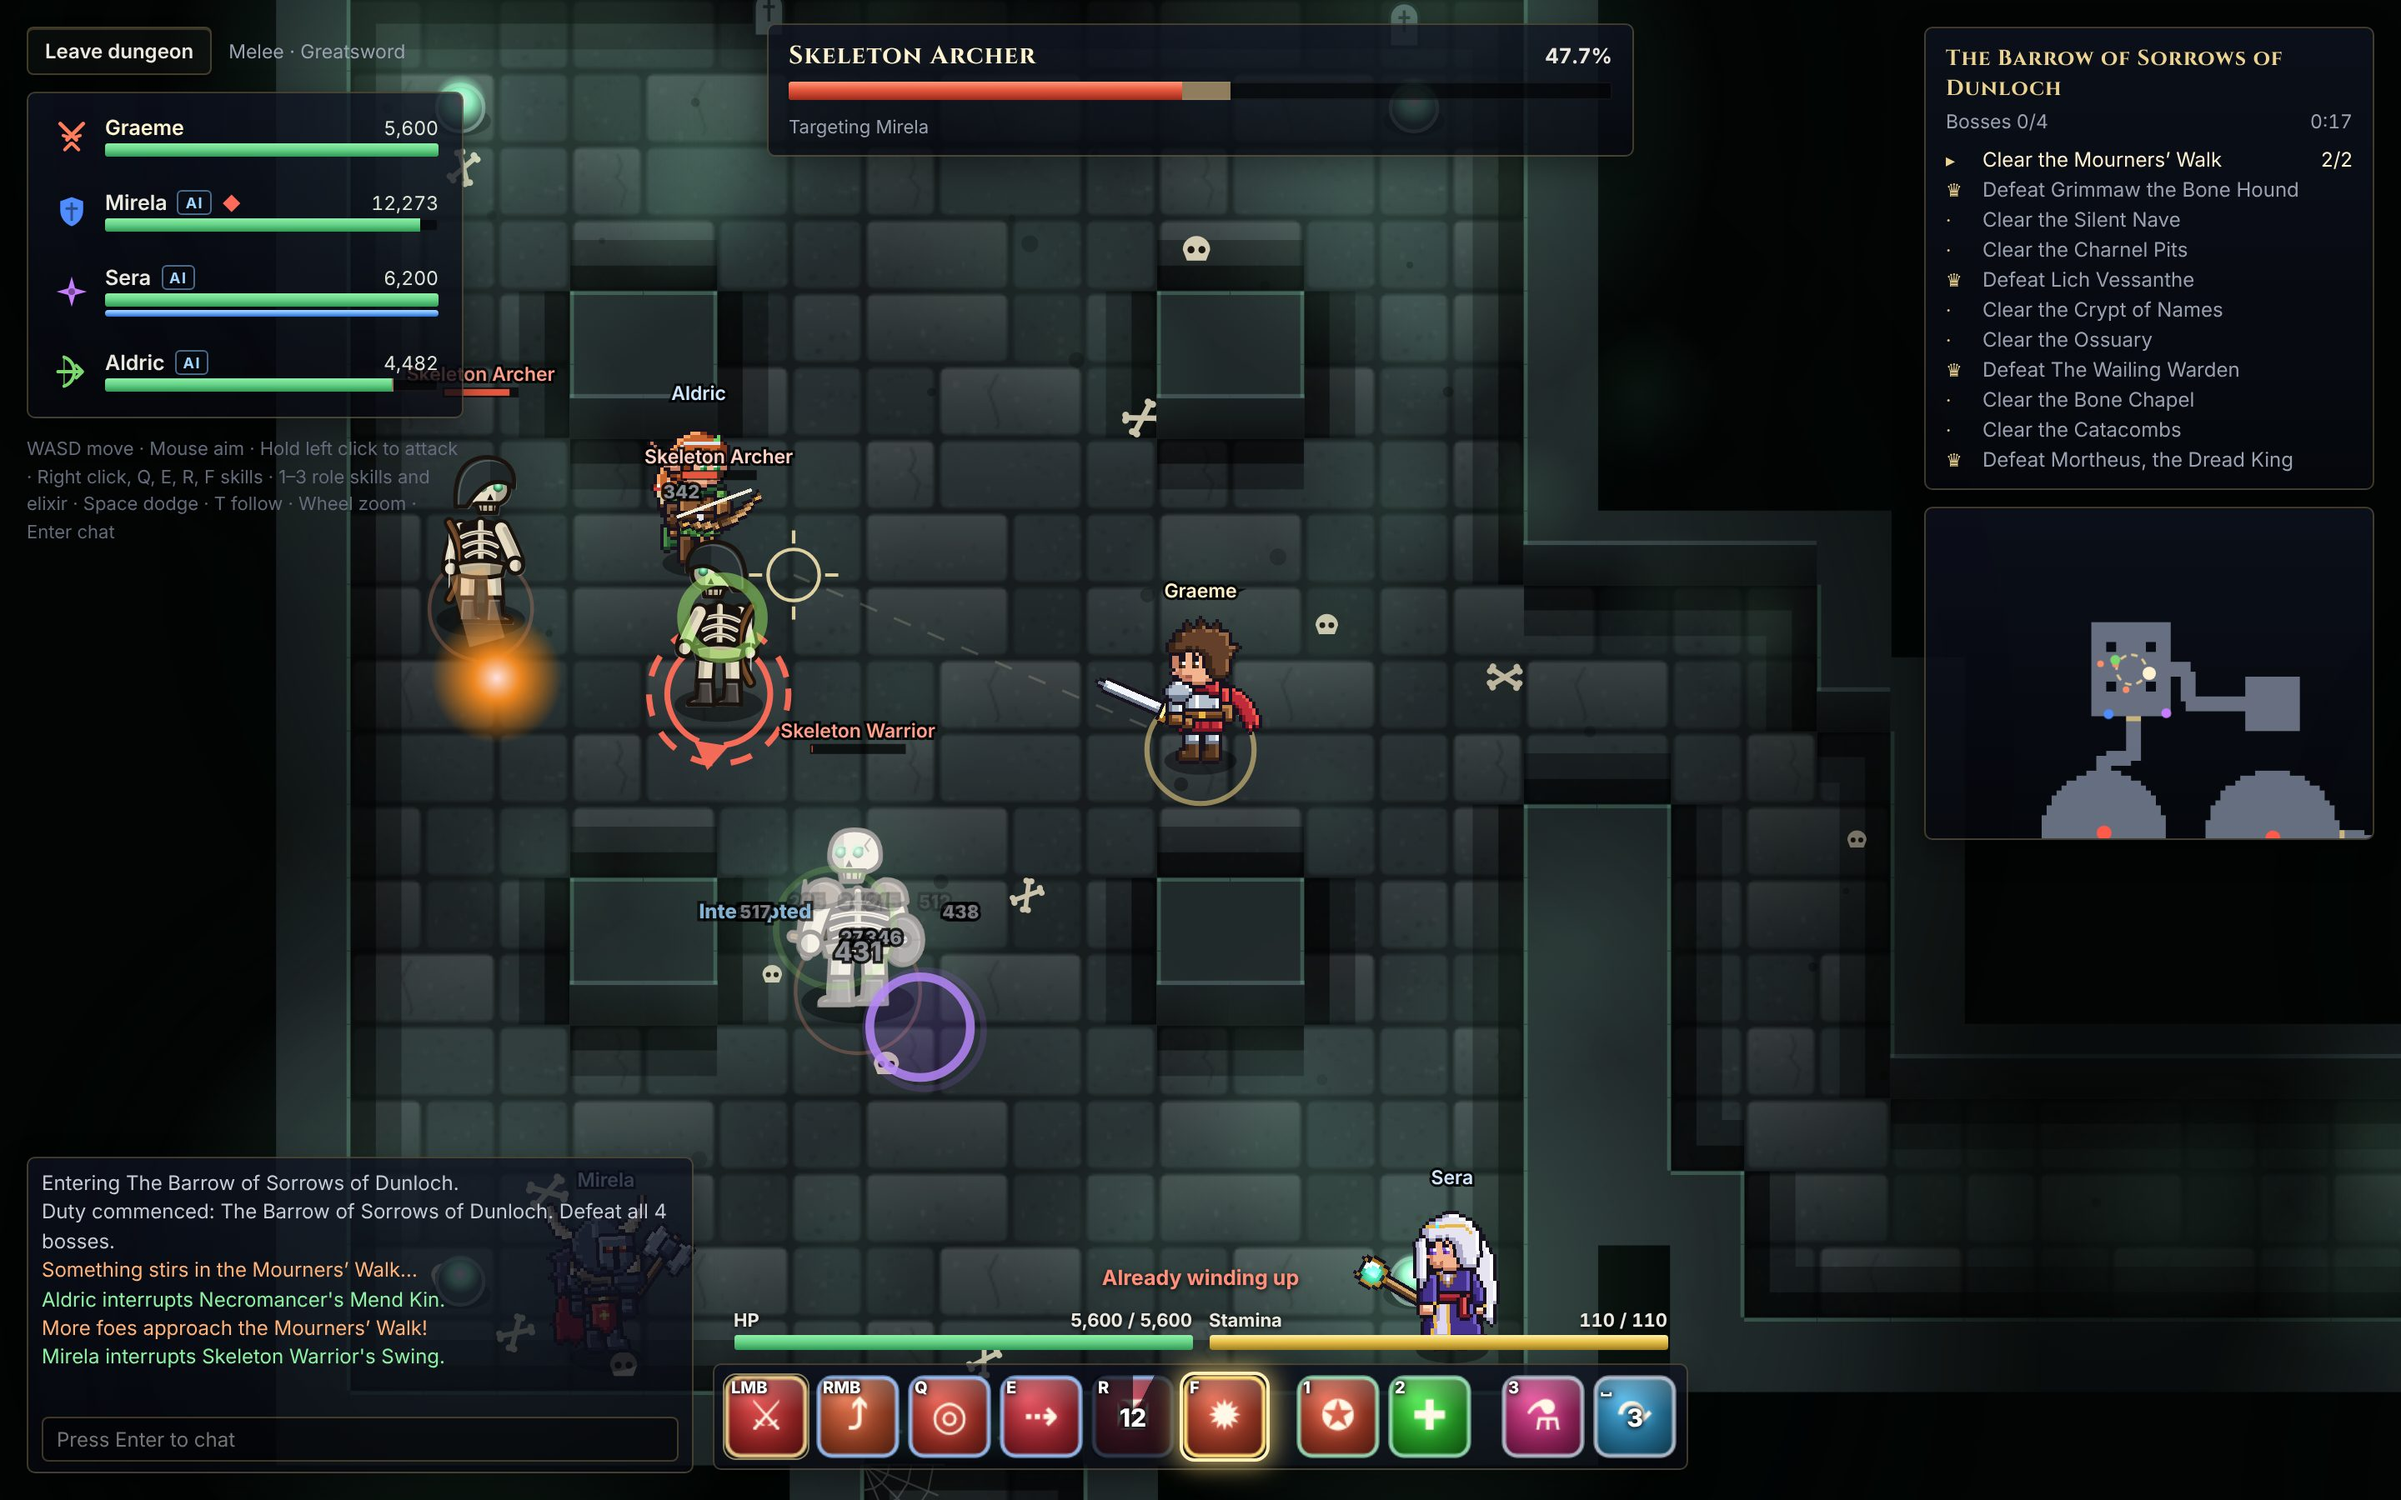
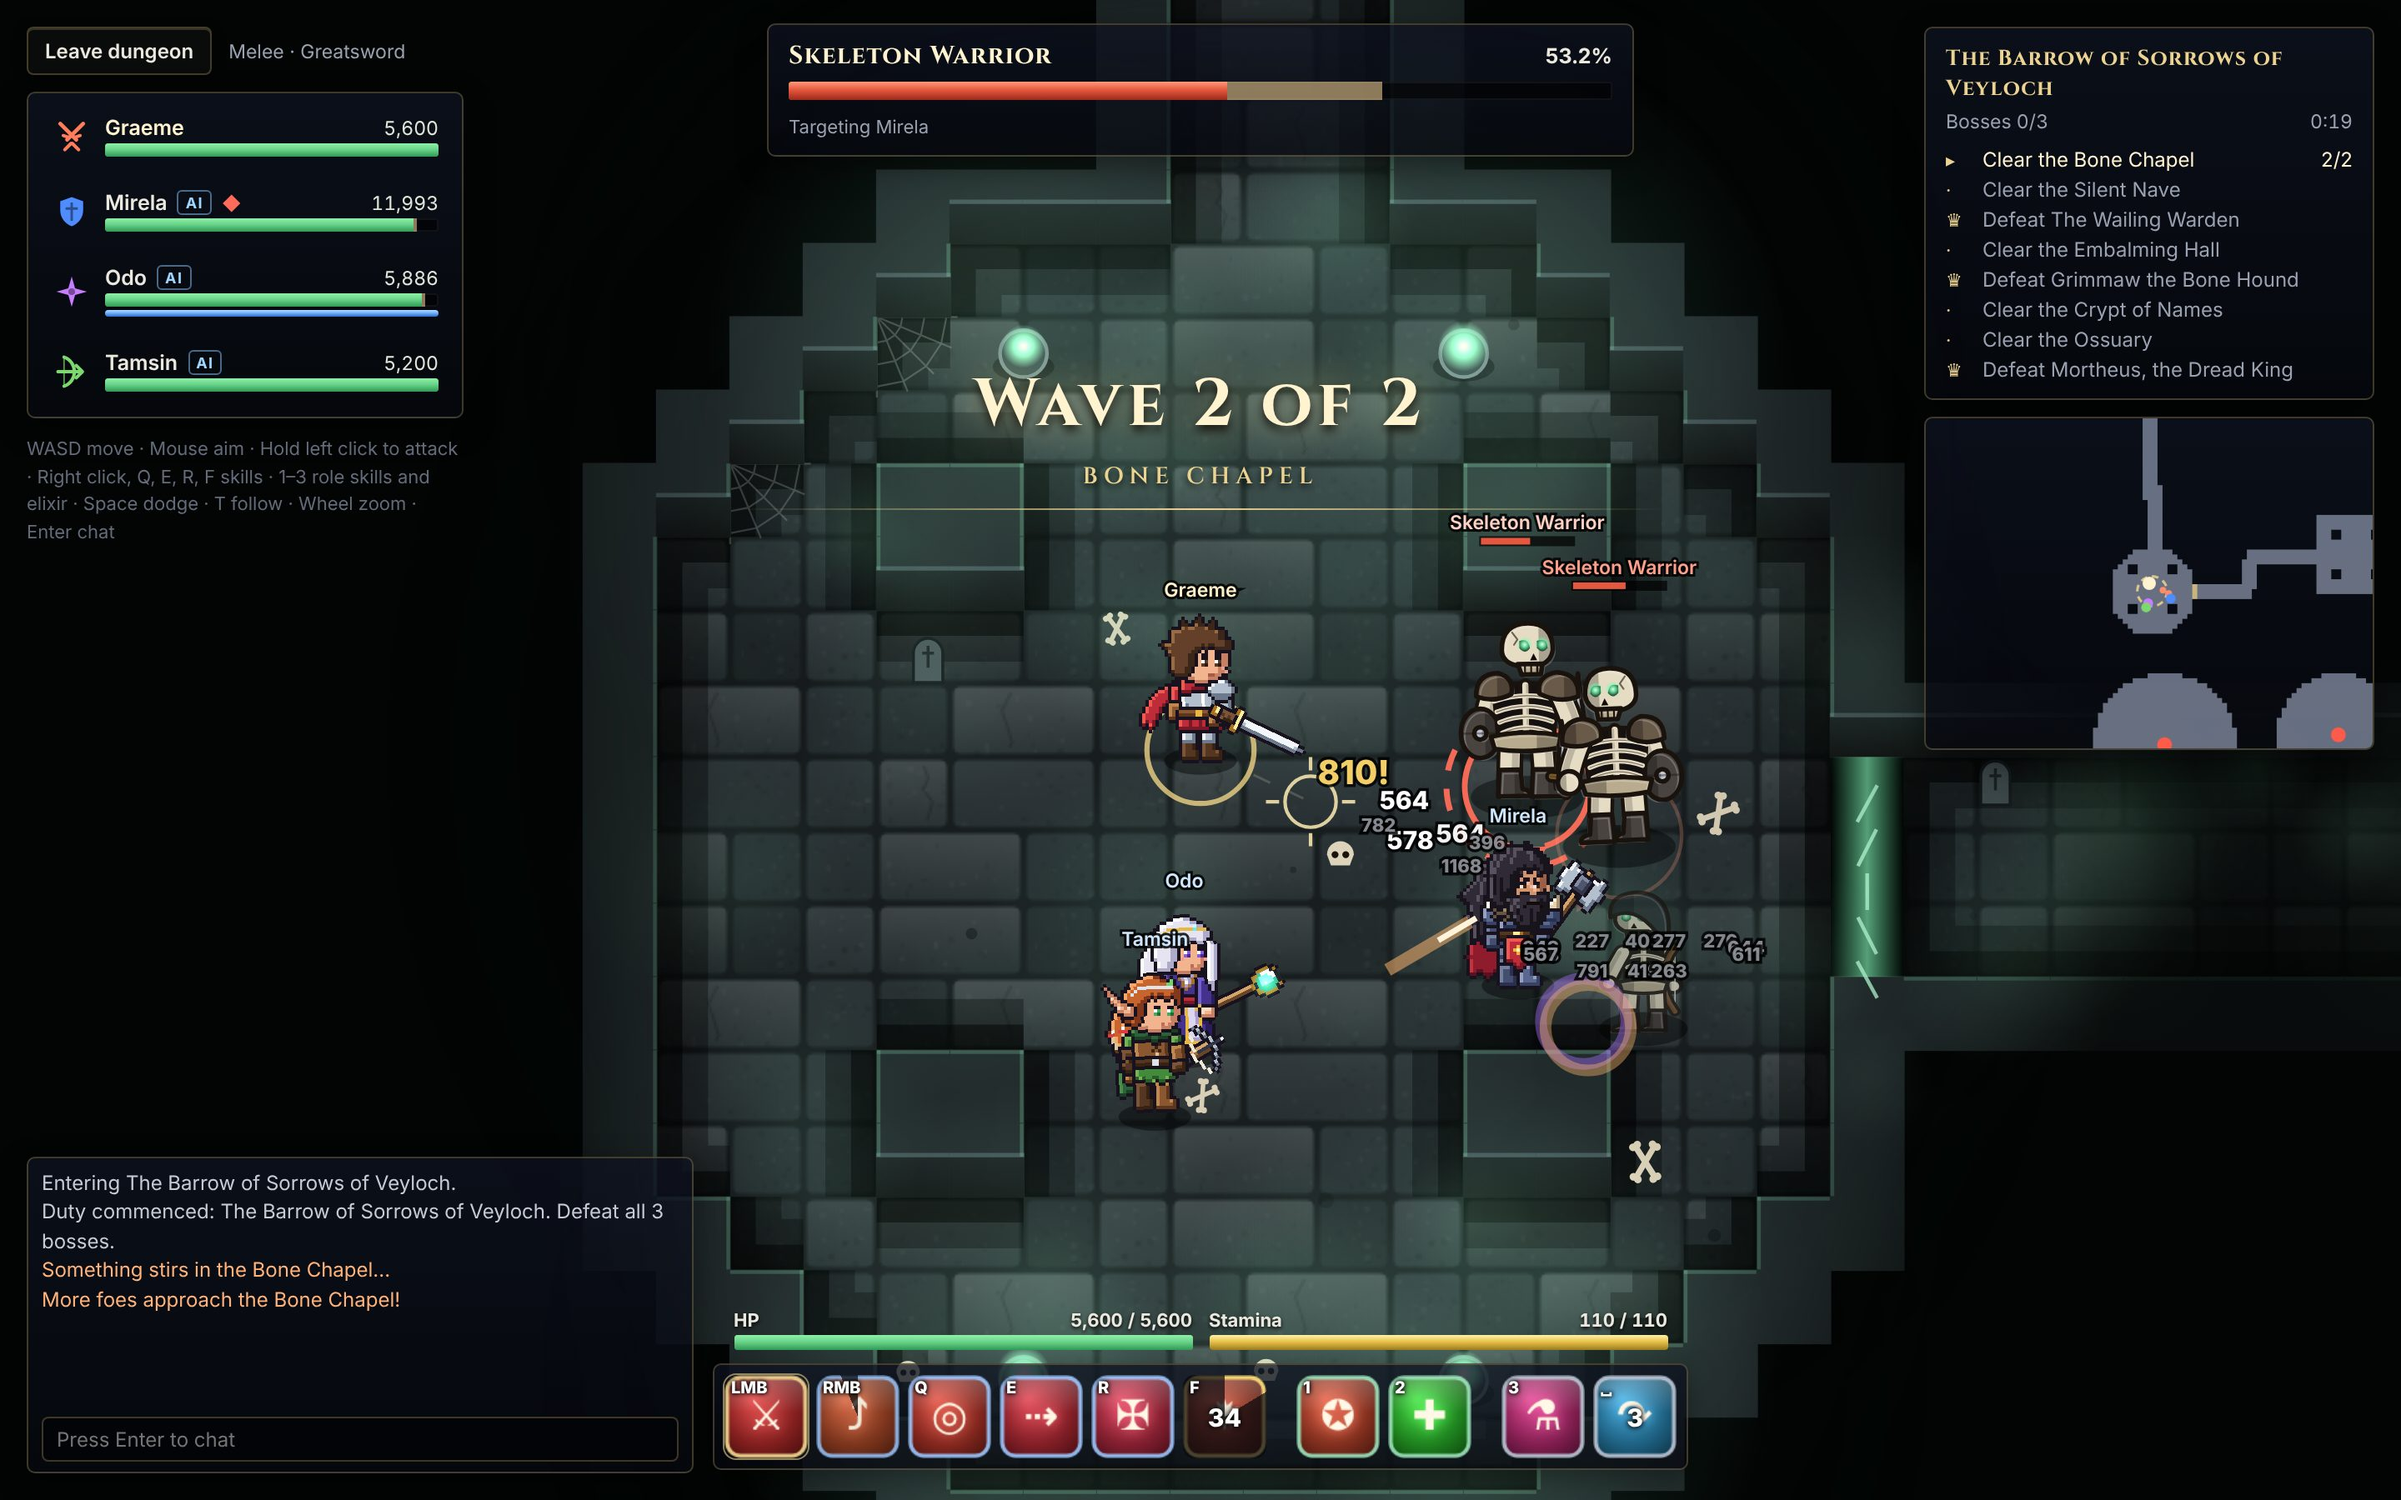
Tank: bare-headed, long dark mane and a bushy beard
Replace the horned helm with a gruff barbarian look: a long dark mane
down the back, a full beard and moustache, low scowling brows, narrowed
eyes, a crooked nose and a scar. His plate gets a blue-steel tint so the
black beard stands out against it. Title, lobby, ready-check and
bestiary screenshots retaken.

Claude-Session: https://claude.ai/code/session_01PGbyV5ggZzqgFPyt3tnswL

diff --git a/src/client/art/heroes.ts b/src/client/art/heroes.ts
@@ -27,9 +27,12 @@ const DARK_LEATHER: Ramp = ['#7c5538', '#553620', '#382213'];
 const RED: Ramp = ['#ee5a52', '#bd2c38', '#7a1828'];
 const CAPE: Ramp = ['#c4323e', '#8e1c2c', '#5a1020'];
 const FUR: Ramp = ['#d4c2a2', '#9c8668', '#66563f'];
-const FACEPLATE: Ramp = ['#b4bccf', '#78809a', '#4a5068'];
 const BONE: Ramp = ['#fff8e6', '#e3d3ae', '#a99470'];
-const BLACK_HAIR: Ramp = ['#6e6488', '#3e3654', '#241f34'];
+const PLATE: Ramp = ['#93a2c4', '#5a6890', '#384265'];
+const PLATE_DARK: Ramp = ['#73809f', '#444f70', '#2a3150'];
+const DARK_HAIR: Ramp = ['#58525f', '#2f2a36', '#18141c'];
+const WEATHERED: Ramp = ['#f2c29c', '#d4946c', '#9c5e44'];
+const SCAR = '#f0b4a0';
 const WHITE_HAIR: Ramp = ['#ffffff', '#e6e4f1', '#aeaaca'];
 const ROBE: Ramp = ['#7360cc', '#44328e', '#2a1d5e'];
 const ROBE_INNER: Ramp = ['#ffffff', '#ddd6f2', '#a99dcc'];
@@ -64,24 +67,26 @@ function heroDef(p: Pix, hand: { x: number; y: number }): SpriteDef {
 
 // ── Heroes ───────────────────────────────────────────────────────────────────────────────────
 
-/** Tank: a barbarian dark knight — horned helm, wild black mane, fur collar and tattered cape. */
+/** Tank: a gruff barbarian dark knight — long dark mane, bushy beard, fur collar and tattered cape. */
 function tank(): SpriteDef {
   const p = new Pix(W, H);
   p.paint(shape().poly([[14, 22], [26, 22], [24, 30], [22, 40], [20, 43], [18, 41], [16, 44], [14, 41], [11, 44], [9, 41], [6, 43], [5, 37], [7, 30], [10, 25]], X), CAPE, { shade: 2 });
-  p.paint(shape().poly([[13, 12], [17, 14], [16, 22], [14, 30], [12, 27], [11, 31], [9, 27], [6, 29], [7, 24], [4, 24], [7, 20], [5, 17], [9, 15]], X), BLACK_HAIR, { shade: 2 });
-  p.dots([[9, 19], [10, 22], [8, 25], [12, 24]], BLACK_HAIR[0]);
-  legs(p, DARKER_STEEL, DARK_STEEL, DARK_STEEL, DARKER_STEEL);
-  p.paint(shape().ellipse(16.5, 37, 1.6, 1.2, X), DARK_STEEL, { line: false });
+  // Long dark mane down the back.
+  p.paint(shape().poly([[12, 8], [18, 6], [19, 20], [17, 28], [15, 34], [13, 31], [11, 35], [9, 31], [6, 33], [7, 27], [4, 28], [6, 22], [3, 19], [7, 15], [8, 11]], X), DARK_HAIR, { shade: 2 });
+  p.line(10, 12, 8, 20, DARK_HAIR[0]).line(14, 10, 13, 17, DARK_HAIR[0]);
+  p.line(9, 22, 8, 30, DARK_HAIR[2]).line(12, 20, 12, 31, DARK_HAIR[2]).line(6, 24, 5, 27, DARK_HAIR[2]).line(15, 24, 15, 31, DARK_HAIR[2]);
+  legs(p, PLATE_DARK, PLATE, PLATE, PLATE_DARK);
+  p.paint(shape().ellipse(16.5, 37, 1.6, 1.2, X), PLATE, { line: false });
   p.paint(shape().ellipse(22.5, 37, 1.8, 1.3, X), STEEL, { line: false });
   // Back arm and pauldron.
-  p.paint(shape().rect(11, 25, 14, 31, X), DARKER_STEEL);
-  p.paint(shape().rect(11, 31, 14, 34, X), DARKER_STEEL);
-  p.paint(shape().ellipse(13, 24.5, 3.5, 3, X), DARK_STEEL, { shade: 2 });
+  p.paint(shape().rect(11, 25, 14, 31, X), PLATE_DARK);
+  p.paint(shape().rect(11, 31, 14, 34, X), PLATE_DARK);
+  p.paint(shape().ellipse(13, 24.5, 3.5, 3, X), PLATE, { shade: 2 });
   p.paint(shape().poly([[10.5, 23], [13, 22.5], [10.5, 18]], X), BONE, { bottom: false });
   // Breastplate, belt and crimson tabard.
-  p.paint(shape().poly([[14, 22], [27, 22], [26, 34], [15, 34]], X), DARK_STEEL, { shade: 2 });
-  p.vline(20, 24, 28, DARK_STEEL[0]);
-  p.hline(16, 25, 28, DARKER_STEEL[2]);
+  p.paint(shape().poly([[14, 22], [27, 22], [26, 34], [15, 34]], X), PLATE, { shade: 2 });
+  p.vline(20, 24, 28, PLATE[0]);
+  p.hline(16, 25, 28, PLATE_DARK[2]);
   p.paint(shape().rect(15, 30, 26, 31, X), DARK_LEATHER, { hi: false });
   p.paint(shape().rect(19, 30, 21, 31, X), GOLD, { line: false });
   p.paint(shape().poly([[17, 32], [24, 32], [24, 38], [20.5, 41], [17, 38]], X), RED, { shade: 2 });
@@ -90,21 +95,27 @@ function tank(): SpriteDef {
   p.paint(shape().ellipse(20.5, 22.5, 8, 2.6, X).dots([[13, 25], [16, 26], [19, 25], [22, 26], [25, 25], [28, 24]], X), FUR, { shade: 2 });
   p.dots([[15, 21], [18, 21], [21, 21], [24, 21]], FUR[0]);
   // Front arm, gauntlet and spiked pauldron.
-  p.paint(shape().rect(26, 25, 29, 31, X), DARK_STEEL);
-  p.paint(shape().rect(26, 31, 29, 35, X), DARKER_STEEL);
-  p.hline(26, 28, 33, DARK_STEEL[0]);
-  p.paint(shape().ellipse(28, 24.5, 4.5, 3.5, X), DARK_STEEL, { shade: 2 });
-  p.hline(25, 31, 26, DARKER_STEEL[2]).dots([[26, 22], [27, 22]], DARK_STEEL[0]);
-  p.paint(shape().poly([[28, 22], [31, 22.5], [32, 16.5]], X), BONE, { bottom: false });
-  // Horned helm with a glowing T visor.
-  p.paint(shape().poly([[15, 11], [11, 9], [8, 6], [6, 1], [5, 2], [5, 6], [7, 10], [12, 13]], X), BONE, { bottom: false });
-  p.paint(shape().ellipse(20.5, 14, 8.5, 8, X), DARK_STEEL, { shade: 3 });
-  p.vline(19, 7, 12, DARK_STEEL[0]).vline(18, 8, 11, '#a6aec4');
-  p.dots([[14, 17], [15, 20], [13, 13]], DARK_STEEL[0]);
-  p.paint(shape().poly([[20, 12], [29.5, 12], [29.5, 19], [25, 23], [20, 20]], X), FACEPLATE, { shade: 2 });
-  p.hline(21, 29, 15, INK).hline(21, 29, 16, INK).rect(24, 17, 25, 21, INK);
-  p.dots([[22, 15], [26, 15]], '#ff4a32').dots([[23, 15], [27, 15]], '#ffd27a').dots([[22, 16], [23, 16], [26, 16], [27, 16]], '#8c1d1d');
-  p.paint(shape().poly([[26, 9], [30, 11], [32, 8], [34, 4], [34, 0], [33, 0], [32, 4], [29, 7]], X), BONE, { bottom: false });
+  p.paint(shape().rect(26, 25, 29, 31, X), PLATE);
+  p.paint(shape().rect(26, 31, 29, 35, X), PLATE_DARK);
+  p.hline(26, 28, 33, PLATE[0]);
+  p.paint(shape().ellipse(28, 24.5, 4.5, 3.5, X), PLATE, { shade: 2 });
+  p.hline(25, 31, 26, PLATE_DARK[2]).dots([[26, 22], [27, 22]], PLATE[0]);
+  p.paint(shape().poly([[29, 22], [32, 22.5], [33, 17]], X), BONE, { bottom: false });
+  // Weathered face, a crown of wild hair and a crooked nose.
+  p.paint(shape().ellipse(20.5, 14.5, 8, 7.5, X), WEATHERED, { shade: 2 });
+  p.paint(shape().poly([[12, 20], [11, 13], [12, 9], [14, 5], [16, 6.5], [18, 3.5], [20, 5], [23, 3.5], [24, 5.5], [27, 6], [29, 9], [29.5, 13], [28, 11.5], [26.5, 13], [25.5, 10.5], [23.5, 12], [22, 10], [20, 12.5], [19, 17], [17.5, 21], [14, 23]], X), DARK_HAIR, { shade: 2 });
+  p.line(15, 7, 13, 12, DARK_HAIR[0]).line(19, 6, 18, 9, DARK_HAIR[0]).line(23, 6, 24, 8, DARK_HAIR[0]);
+  p.line(15, 14, 15, 20, DARK_HAIR[2]).line(13, 13, 13, 18, DARK_HAIR[2]);
+  p.dots([[29, 16], [29, 17]], WEATHERED[1]).set(28, 17, WEATHERED[2]);
+  // A heavy scowl: low brows, narrowed eyes and a scar across the nose.
+  p.dots([[20, 13], [21, 13], [22, 14], [23, 14], [25, 14], [26, 13], [27, 13]], INK).dots([[21, 12], [26, 12]], DARK_HAIR[1]);
+  for (const x of [21, 25]) p.hline(x, x + 1, 15, INK).set(x, 16, '#f1e6d2').set(x + 1, 16, '#3b2418');
+  p.dots([[23, 15], [24, 16], [25, 17]], SCAR);
+  // Bushy beard and moustache, with a downturned mouth.
+  p.paint(shape().poly([[17, 17.5], [19, 19.5], [22, 18.5], [25, 19.5], [27.5, 18], [29, 17.5], [29, 22], [28, 25], [26, 27.5], [24.5, 29.5], [23, 28], [21.5, 29.5], [19.5, 27], [18, 24.5], [17, 21]], X), DARK_HAIR, { shade: 2, line: DARK_HAIR[2] });
+  p.line(20, 23, 21, 26, DARK_HAIR[2]).line(24, 23, 24, 27, DARK_HAIR[2]).line(27, 22, 26, 25, DARK_HAIR[2]).dots([[19, 21], [20, 22]], DARK_HAIR[0]);
+  p.hline(21, 28, 19, DARK_HAIR[1]).dots([[21, 20], [28, 20]], DARK_HAIR[1]);
+  p.hline(23, 26, 21, '#120c0c').dots([[22, 22], [27, 22]], '#120c0c');
   return heroDef(p, { x: 27.5, y: 33.5 });
 }
 

diff --git a/README.md b/README.md
@@ -104,10 +104,10 @@ about 750 to 800 and Tanks about 500.
 
 ## Heroes and clans
 
-The heroes are chibi pixel art with dark outlines and three-tone shading: a barbarian dark knight
-in a horned helm for the Tank, a long-haired white mage in star-blue robes for the Mage, an
-elvish archer for the Ranger, and a scarfed soldier in a steel cuirass for the Melee. Every weapon
-is its own pixel sprite. Heroes hold their weapon toward your aim and swing it when they attack,
+The heroes are chibi pixel art with dark outlines and three-tone shading: a gruff barbarian
+knight with a long dark mane and a bushy beard for the Tank, a long-haired white mage in
+star-blue robes for the Mage, an elvish archer for the Ranger, and a scarfed soldier in a steel
+cuirass for the Melee. Every weapon is its own pixel sprite. Heroes hold their weapon toward your aim and swing it when they attack,
 and the Sword & Shield tank carries a heater shield. Characters bob as they walk, lean into their
 strikes, flash when hit, and fall when knocked out.
 
